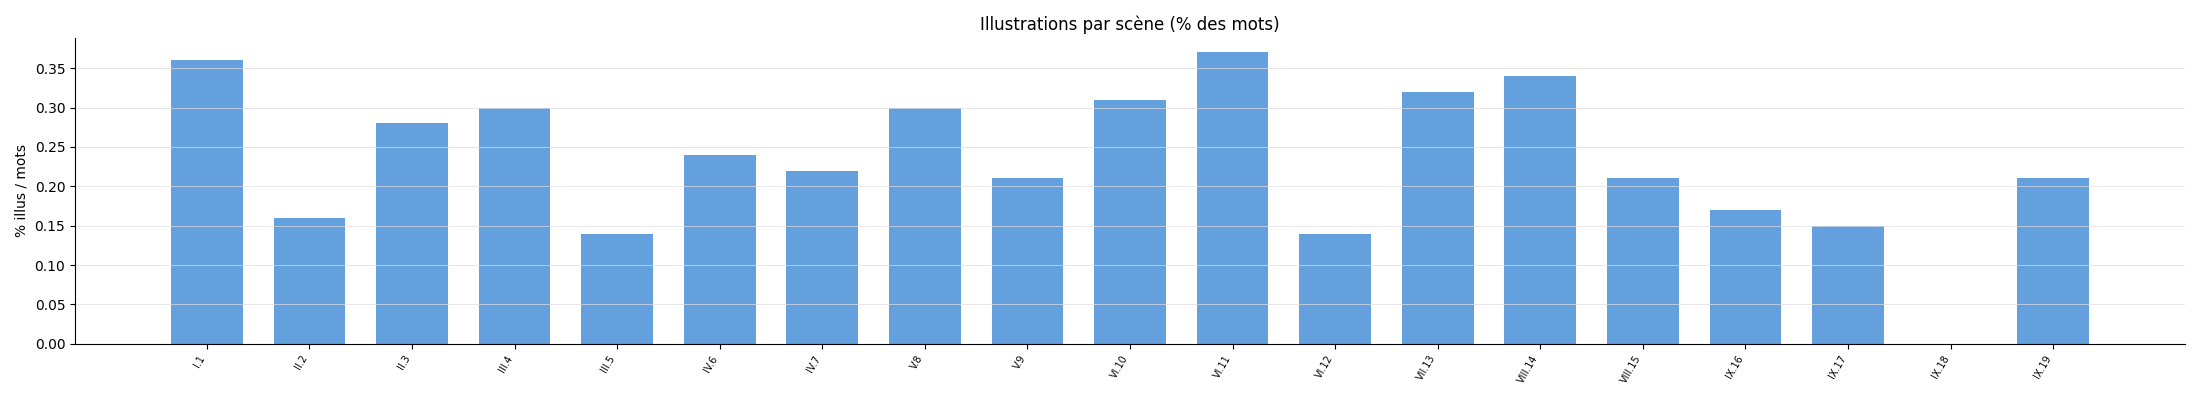
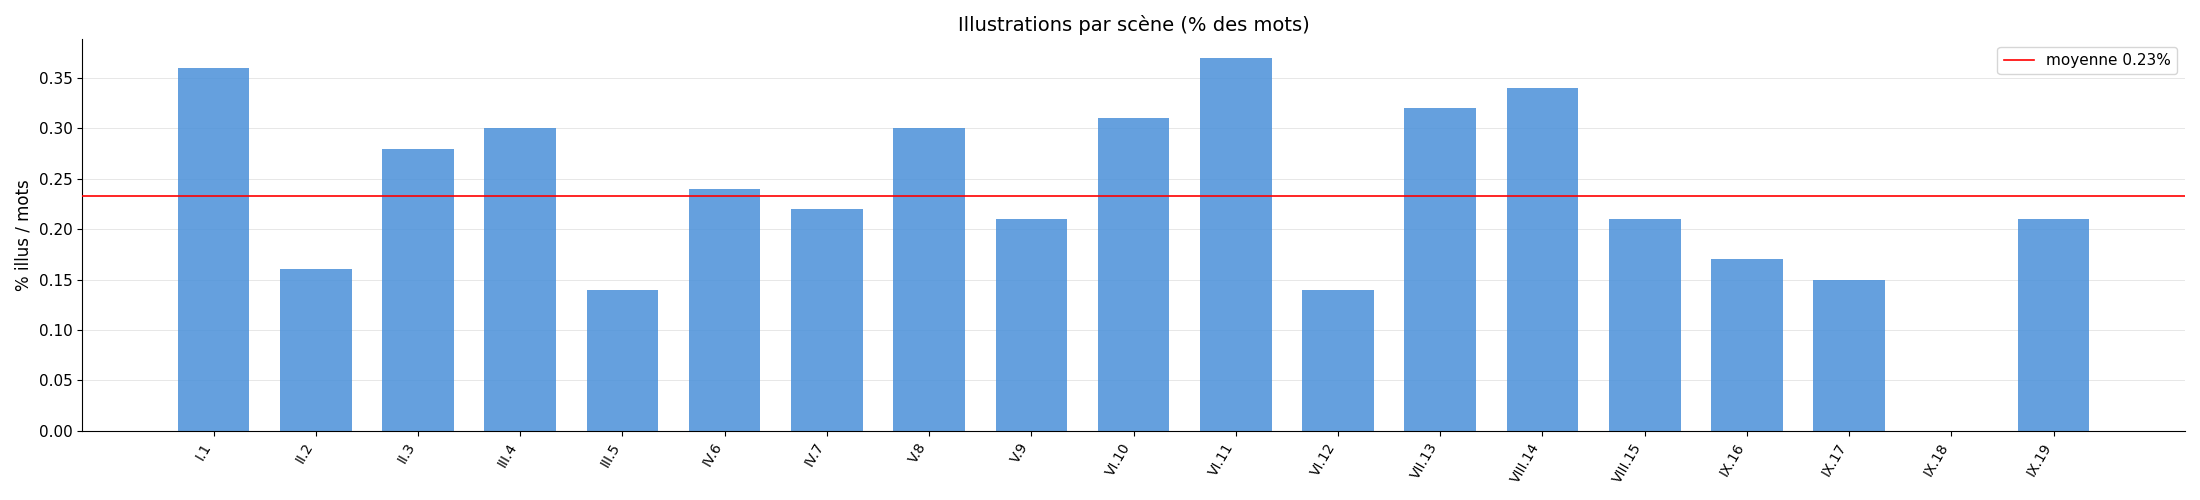
red line for mean

diff --git a/stats.py b/stats.py
@@ -356,12 +356,18 @@ def _png_illus_chart(rows_split: list) -> str:
     scene_labels = [r[0] for r in rows_split]
     values = [round(r[4] / r[2] * 100, 2) if r[2] else 0.0 for r in rows_split]
 
-    fig, ax = plt.subplots(figsize=(22, 4))
-    ax.bar(range(len(values)), values, color="#4a90d9", alpha=0.85, width=0.7)
+    mean_val = sum(values) / len(values) if values else 0.0
+
+    fig, ax = plt.subplots(figsize=(22, 5))
+    ax.bar(range(len(values)), values, color="#4a90d9", alpha=0.85, width=0.7, zorder=2)
+    ax.axhline(mean_val, color="red", linewidth=1.2, zorder=3,
+               label=f"moyenne {mean_val:.2f}%")
     ax.set_xticks(range(len(values)))
-    ax.set_xticklabels(scene_labels, rotation=60, ha="right", fontsize=7)
-    ax.set_ylabel("% illus / mots")
-    ax.set_title("Illustrations par scène (% des mots)")
+    ax.set_xticklabels(scene_labels, rotation=60, ha="right", fontsize=10)
+    ax.set_ylabel("% illus / mots", fontsize=12)
+    ax.set_title("Illustrations par scène (% des mots)", fontsize=14)
+    ax.tick_params(axis="y", labelsize=11)
+    ax.legend(fontsize=11)
     ax.grid(axis="y", linewidth=0.5, color="#ddd", zorder=0)
     ax.spines["top"].set_visible(False)
     ax.spines["right"].set_visible(False)
